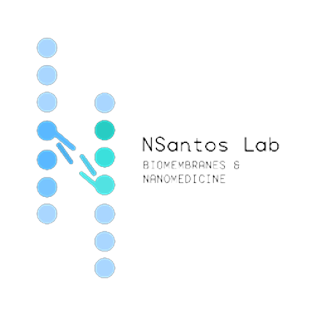
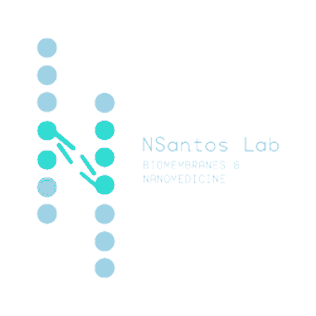
Increase NS mark contrast for light backgrounds.
Darken the light-mode mark and raise hero watermark opacity so it stays readable.

diff --git a/src/components/sections/hero.tsx b/src/components/sections/hero.tsx
@@ -28,12 +28,12 @@ export function Hero({
       <div className="pointer-events-none absolute inset-x-0 top-0 h-[70vh] bg-[radial-gradient(ellipse_at_70%_0%,var(--glow),transparent_55%)]" />
       <div className="pointer-events-none absolute -left-32 bottom-0 h-[40vh] w-[50vw] bg-[radial-gradient(circle,rgba(15,127,120,0.08),transparent_70%)] blur-2xl dark:bg-[radial-gradient(circle,rgba(61,184,174,0.1),transparent_70%)]" />
 
-      {/* Lab mark watermark — identity without competing with GIMM + headline */}
+      {/* Lab mark watermark — quiet but readable brand presence */}
       <div
         aria-hidden
-        className="pointer-events-none absolute -right-[6%] top-[20%] hidden w-[min(48vw,440px)] select-none opacity-[0.09] dark:opacity-[0.14] lg:block"
+        className="pointer-events-none absolute -right-[4%] top-[18%] hidden w-[min(46vw,420px)] select-none opacity-[0.16] dark:opacity-[0.22] lg:block"
       >
-        <NsMark width={440} height={440} priority className="h-auto w-full" />
+        <NsMark width={420} height={420} priority className="h-auto w-full" />
       </div>
 
       <div className="relative z-10 mx-auto flex min-h-[100dvh] w-full max-w-6xl flex-col justify-center overflow-visible px-6 pb-20 pt-36 md:pb-24 md:pt-32">

diff --git a/src/components/layout/site-header.tsx b/src/components/layout/site-header.tsx
@@ -91,7 +91,7 @@ export function SiteHeader({ locale }: { locale: Locale }) {
             href={`/${locale}`}
             className="flex items-center gap-2.5 rounded-full px-2.5 py-1.5 transition-opacity hover:opacity-80"
           >
-            <NsMark width={32} height={32} priority className="h-8 w-8" />
+            <NsMark width={36} height={36} priority className="h-9 w-9" />
             <span className="hidden font-display text-lg leading-none text-ink sm:block">
               {siteConfig.name}
             </span>
